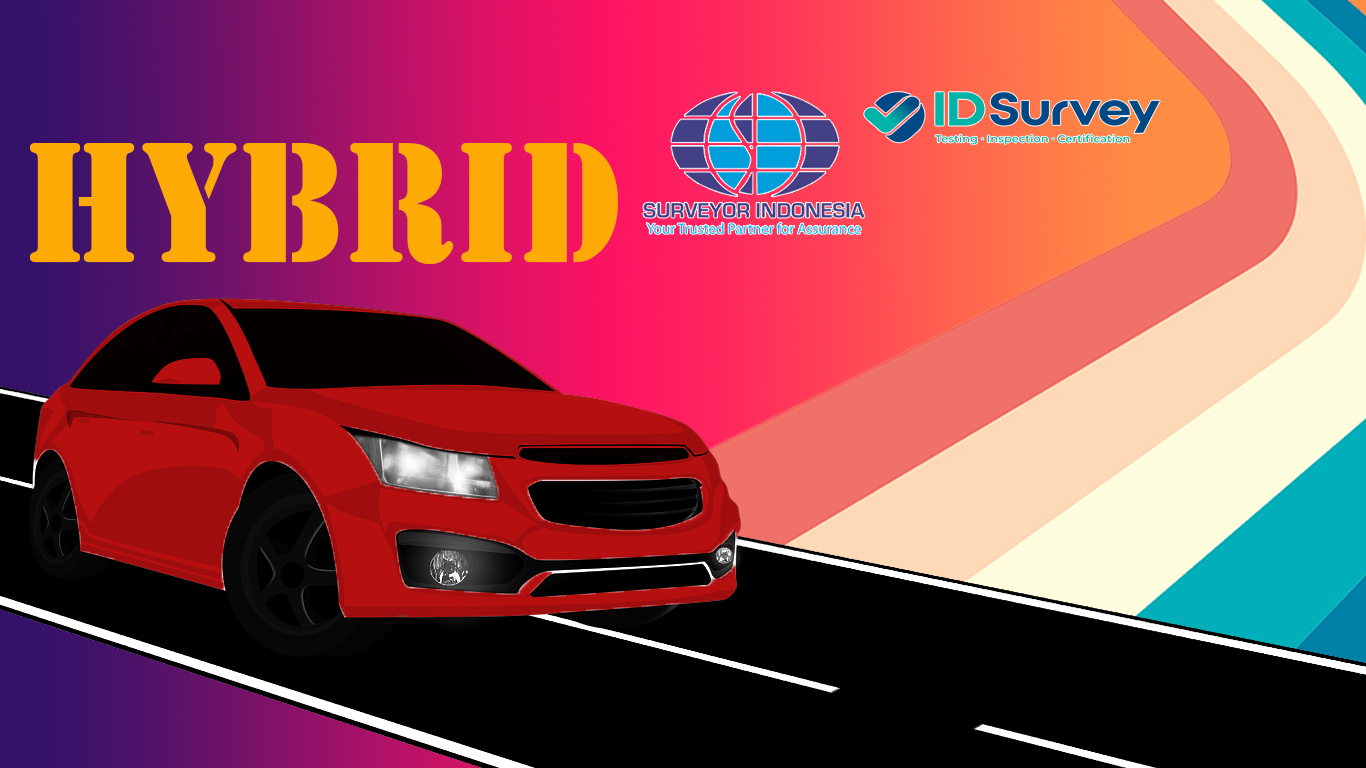
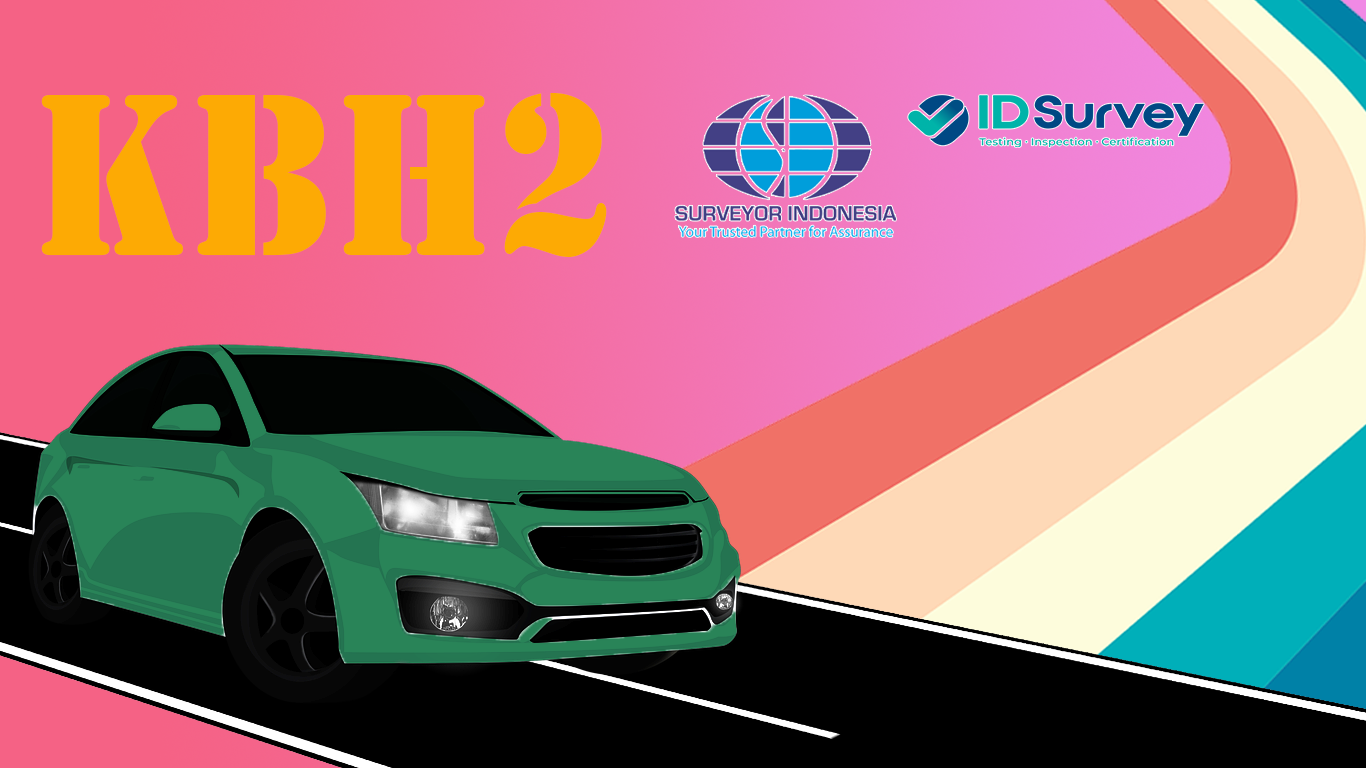
Update KBH2-IW

diff --git a/resources/views/layouts/auth_layout.blade.php b/resources/views/layouts/auth_layout.blade.php
@@ -8,7 +8,7 @@
     <meta name="description" content="">
     <meta name="author" content="">
 
-    <title>HYBRID-LCEV | Login</title>
+    <title>KBH2-LCEV | Login</title>
 
     <!-- Custom fonts for this template-->
     <link href="{{ asset('assets/vendor/fontawesome-free/css/all.min.css') }}" rel="stylesheet" type="text/css">

diff --git a/resources/views/layouts/admin_component/sidebar.blade.php b/resources/views/layouts/admin_component/sidebar.blade.php
@@ -5,7 +5,7 @@
 
     <!-- Sidebar - Brand -->
     <a class="sidebar-brand d-flex align-items-center justify-content-center" href="http://127.0.0.1:8000">
-        <div class="sidebar-brand-text mx-3">HYBRID-LCEV</div>
+        <div class="sidebar-brand-text mx-3">KBH2-LCEV</div>
     </a>
 
     <!-- Nav Item - Dashboard -->

diff --git a/resources/views/layouts/admin_layout.blade.php b/resources/views/layouts/admin_layout.blade.php
@@ -9,7 +9,7 @@
     <meta name="description" content="">
     <meta name="author" content="">
 
-    <title>HYBRID-LCEV</title>
+    <title>KBH2-LCEV</title>
 
     <!-- Custom fonts for this template-->
     <link href="{{ asset('assets/vendor/fontawesome-free/css/all.min.css') }}" rel="stylesheet" type="text/css">

diff --git a/resources/views/admin/dashboard/chart/overview.blade.php b/resources/views/admin/dashboard/chart/overview.blade.php
@@ -154,7 +154,7 @@
                     layout: 'vertical'
                 },
                 title: {
-                    text: 'APM HYBRID LCEV',
+                    text: 'APM KBH2 LCEV',
                     verticalAlign: 'bottom',
                     align: 'center',
                 },
